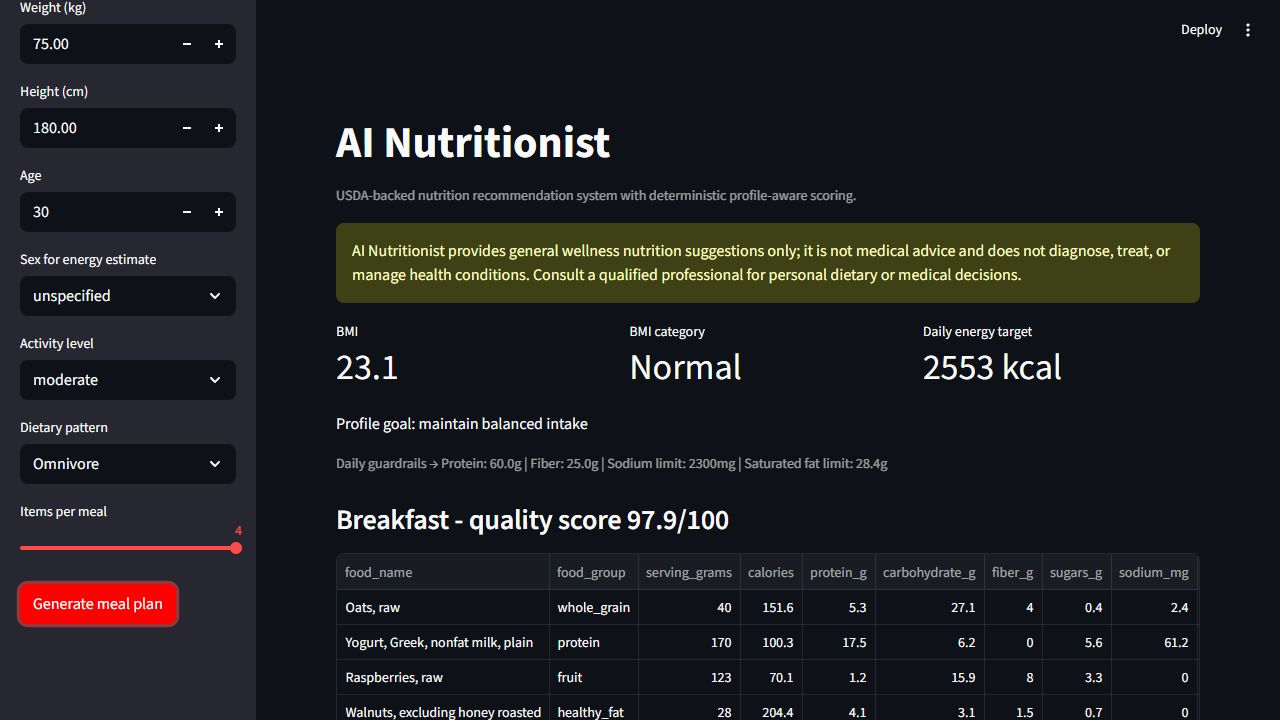
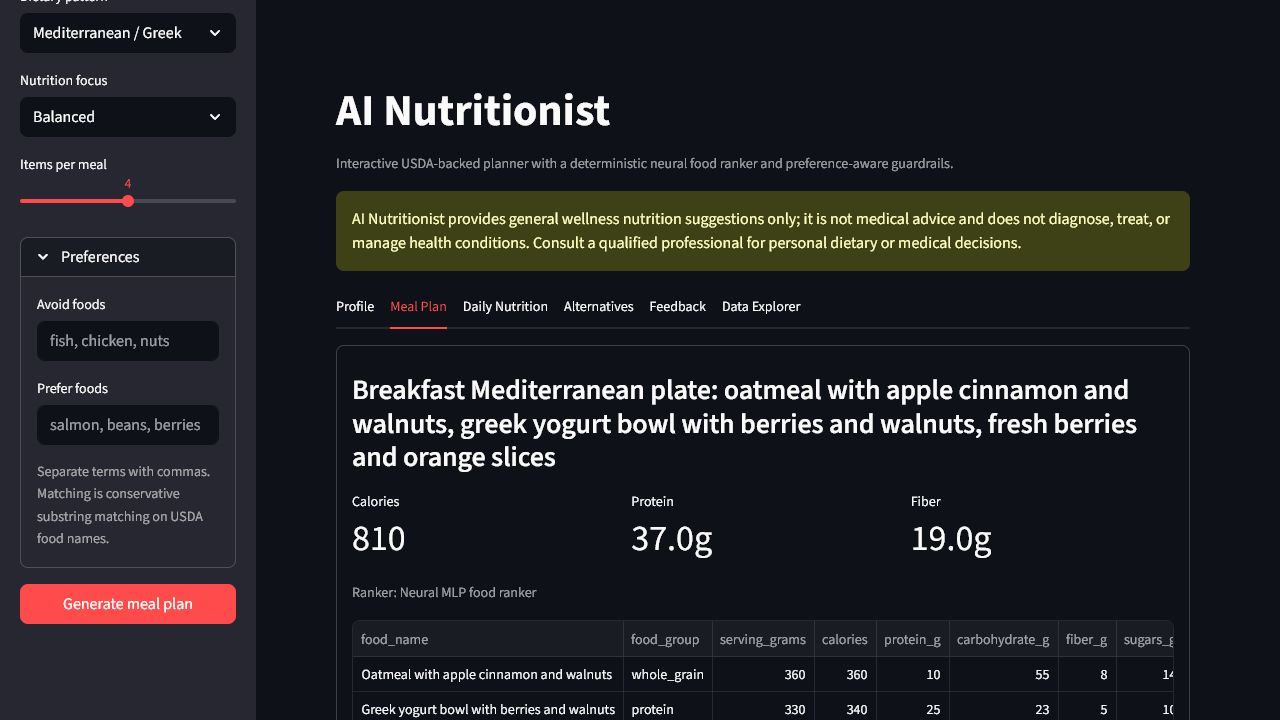
Refresh AI Nutritionist portfolio screenshots

diff --git a/app.py b/app.py
@@ -64,6 +64,27 @@ FEEDBACK_AVOID_TERMS = (
 
 st.set_page_config(page_title="AI Nutritionist", page_icon="AI", layout="wide")
 
+st.markdown(
+    """
+    <style>
+      #MainMenu,
+      footer,
+      header,
+      [data-testid="stDeployButton"],
+      [data-testid="stToolbar"],
+      [data-testid="stDecoration"],
+      [data-testid="stStatusWidget"],
+      .stDeployButton {
+        display: none !important;
+      }
+      .block-container {
+        padding-top: 3rem;
+      }
+    </style>
+    """,
+    unsafe_allow_html=True,
+)
+
 
 @st.cache_data
 def _catalog() -> pd.DataFrame: